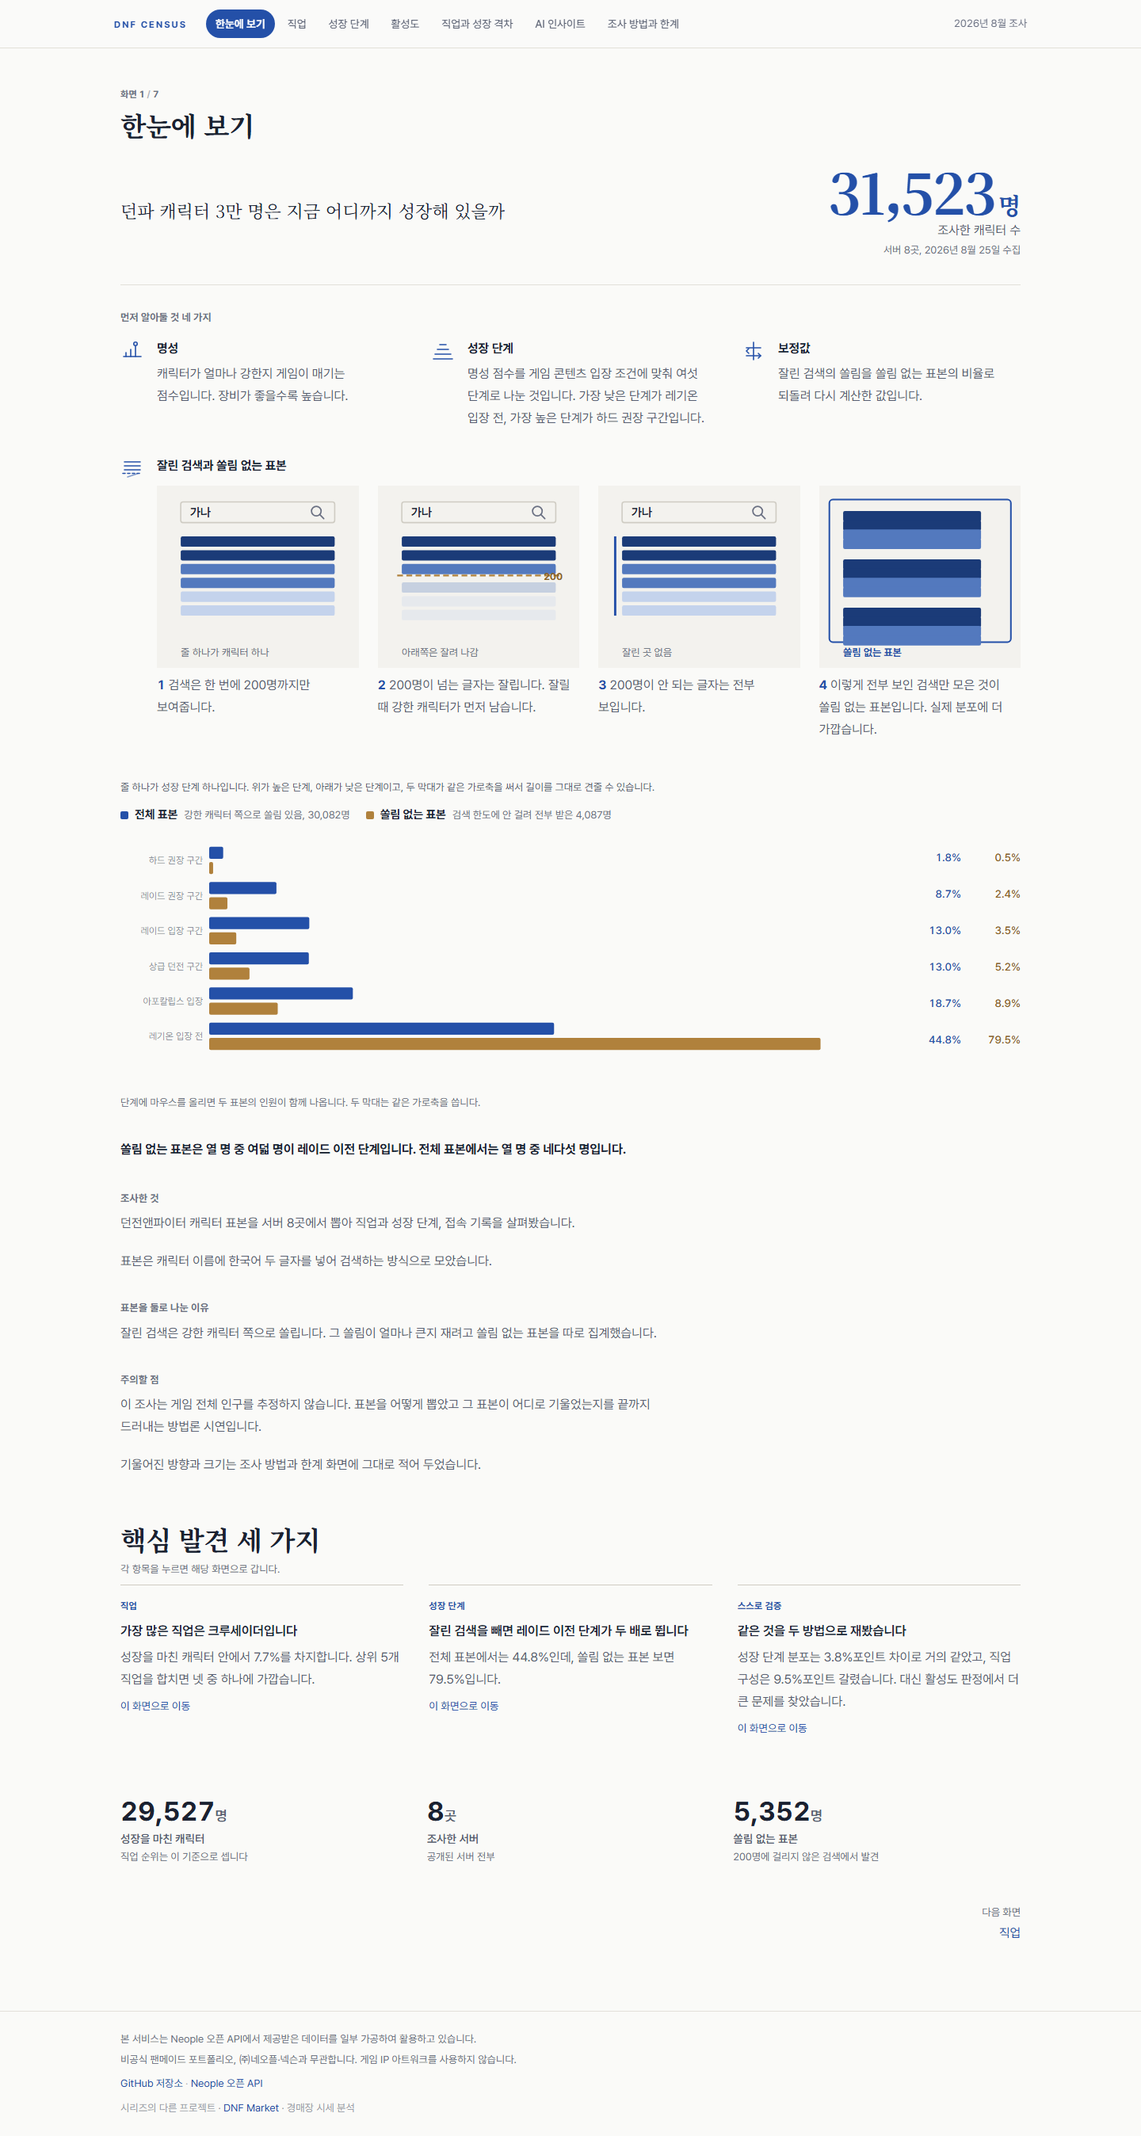
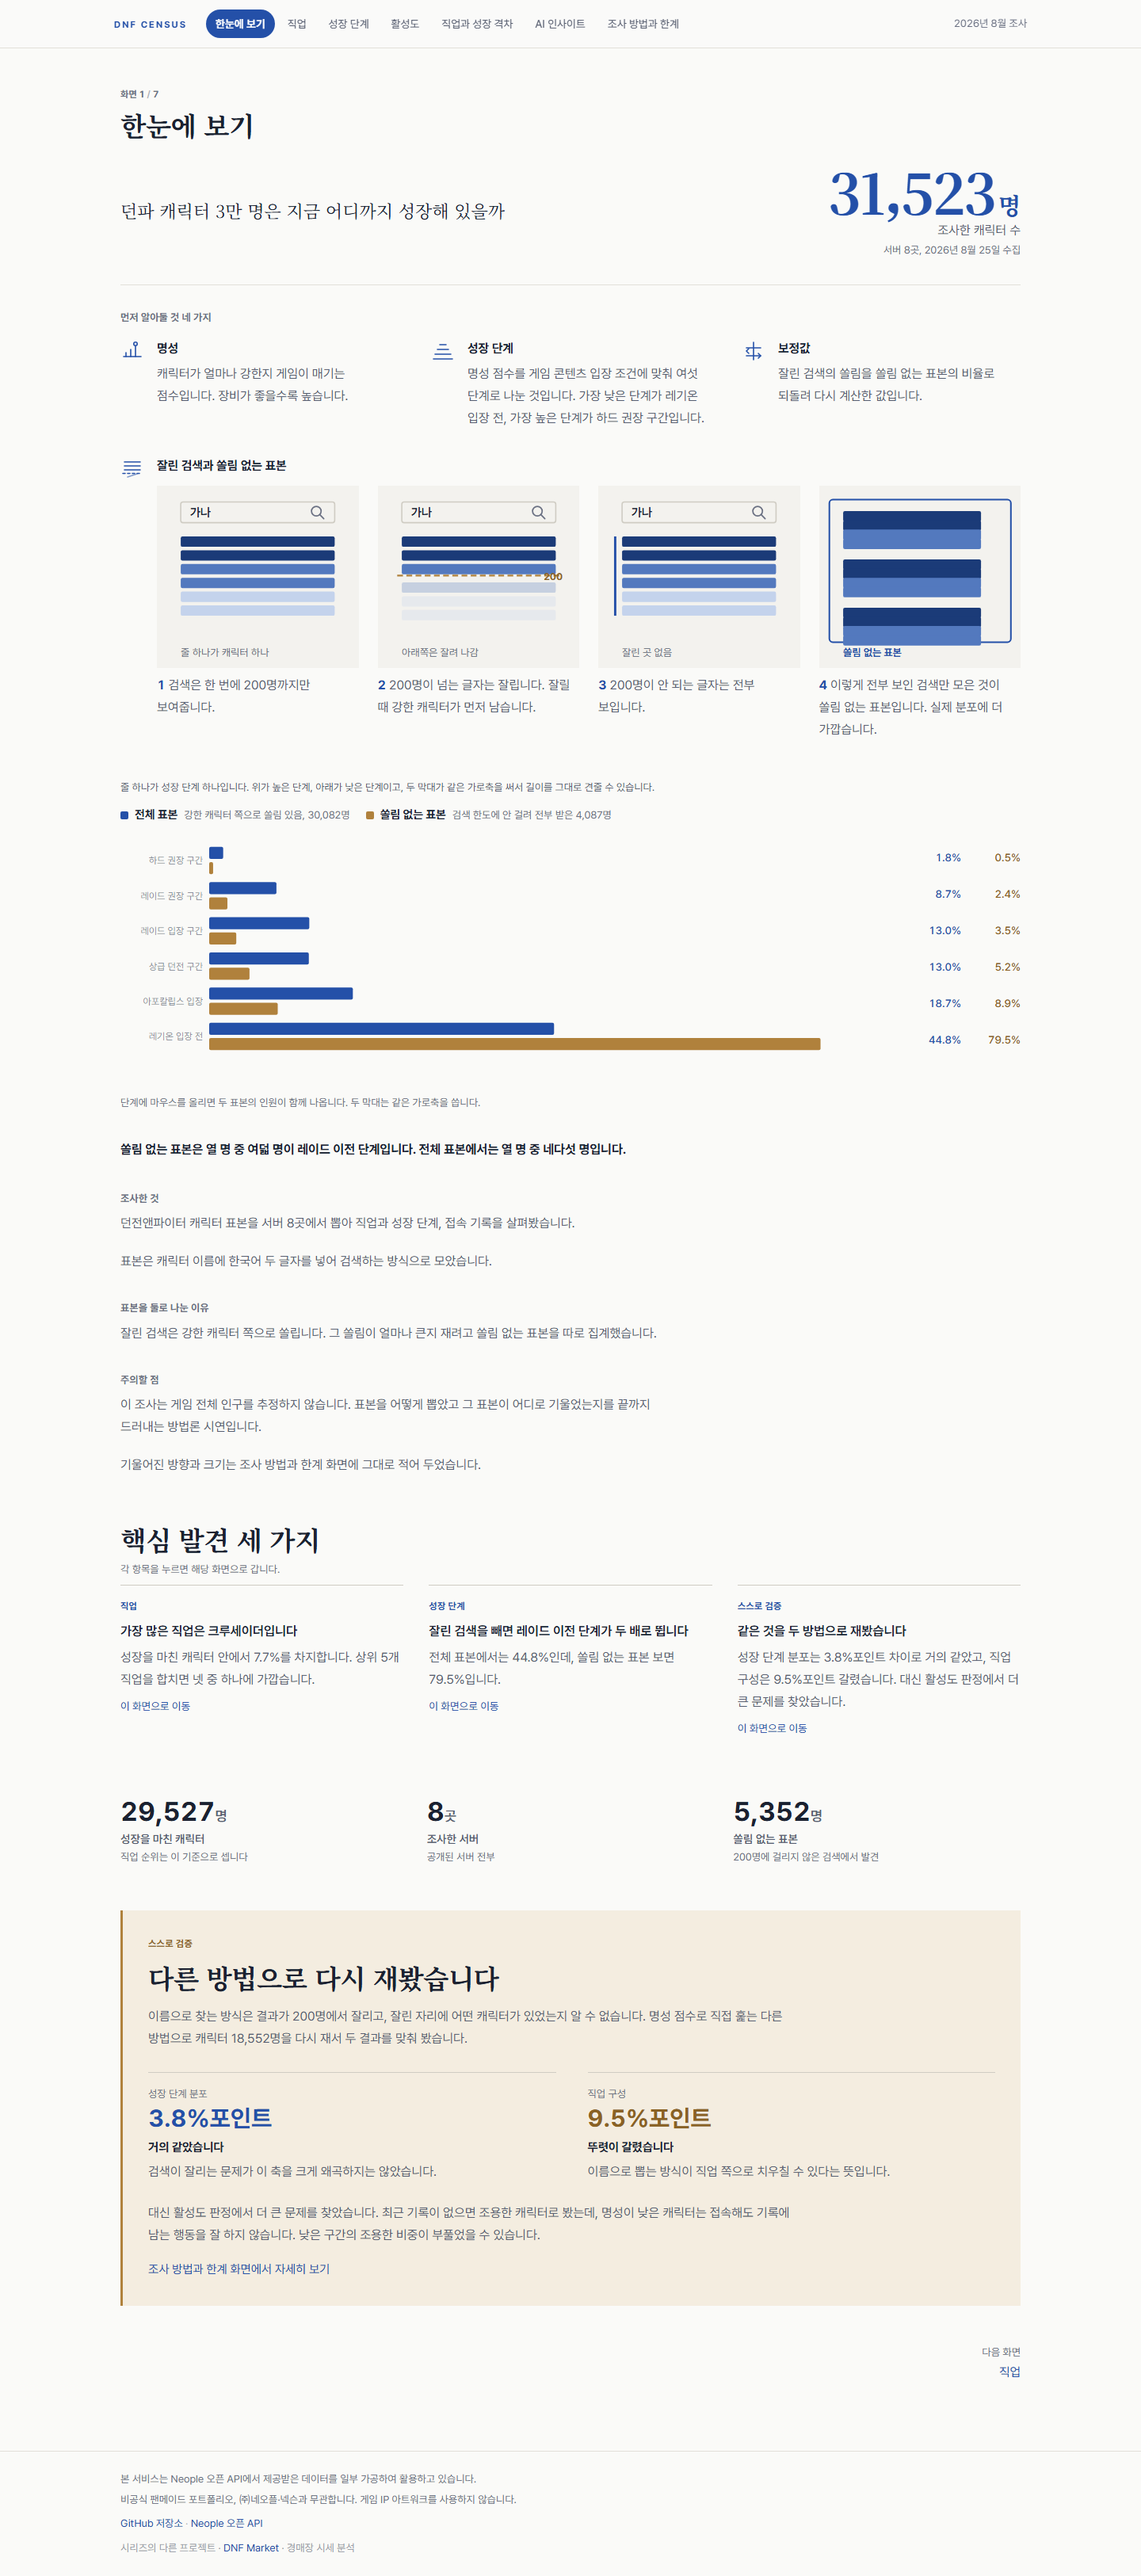
feat: 한눈에 보기 하단에 검증 결과 요약 추가
첫 화면에서도 검증 결과가 바로 보이게 한다. 핵심 발견 카드는 한 줄짜리
안내라 실제 숫자를 담기 어려웠다.

- 실측치 아래에 금색 요약 블록을 놓았다. 성장 단계 분포 3.8%포인트,
  직업 구성 9.5%포인트를 큰 숫자로 나란히 보여 주고 각각 무슨 뜻인지 적었다.
- 활성도 판정에서 더 큰 문제를 찾았다는 점과 조사 방법 화면 링크를 붙였다.
- 1차 조사 수치는 그대로 두고 검증 결과만 덧붙인다.

촬영기 정정
- shot.mjs 가 등장 연출을 끝난 상태로 고정할 때 그림 안쪽 transform 까지
  지워, 차트 축 글자와 막대가 겹쳐 보였다. 그림 내부는 건드리지 않는다.
  화면 자체는 정상이었다.

verify_final 130건 실패 0, 표시 안정성 14/14, 세리프 폴백 0자, 움직임 최소화 통과.

Claude-Session: https://claude.ai/code/session_012QoD4JYFKWpF6JagTJsNdL

diff --git a/report/src/pages/Overview.jsx b/report/src/pages/Overview.jsx
@@ -204,6 +204,59 @@ export default function Overview() {
           <BigNumber index={2} value={meta.completeSampleSize} suffix="명" label="쏠림 없는 표본" note="200명에 걸리지 않은 검색에서 발견" />
         </div>
       </Stagger>
+
+      <Stagger index={8}>
+        <section
+          className="mt-14 px-6 py-7 lg:px-8 lg:py-8"
+          style={{ background: "var(--gold-soft)", borderLeft: "3px solid var(--gold)" }}
+        >
+          <p className="t-eyebrow m-0" style={{ color: "var(--gold-text)" }}>스스로 검증</p>
+          <h2 className="t-title m-0 mt-2 text-[1.3rem]">다른 방법으로 다시 재봤습니다</h2>
+          <p className="t-body m-0 mt-3 max-w-[52rem] text-[0.95rem]">
+            이름으로 찾는 방식은 결과가 200명에서 잘리고, 잘린 자리에 어떤 캐릭터가 있었는지 알 수 없습니다.
+            명성 점수로 직접 훑는 다른 방법으로 캐릭터 {fmtPeople(verify.meta.sampleSize)}을 다시 재서 두 결과를 맞춰 봤습니다.
+          </p>
+
+          <div className="mt-7 grid gap-x-10 gap-y-6 sm:grid-cols-2">
+            {[
+              {
+                label: "성장 단계 분포",
+                value: verify.fameTvd,
+                verdict: "거의 같았습니다",
+                body: "검색이 잘리는 문제가 이 축을 크게 왜곡하지는 않았습니다.",
+                tone: "var(--accent)",
+              },
+              {
+                label: "직업 구성",
+                value: verify.jobTvd,
+                verdict: "뚜렷이 갈렸습니다",
+                body: "이름으로 뽑는 방식이 직업 쪽으로 치우칠 수 있다는 뜻입니다.",
+                tone: "var(--gold-text)",
+              },
+            ].map((c) => (
+              <div key={c.label} style={{ borderTop: "1px solid var(--hairline-strong)" }} className="pt-4">
+                <p className="t-small m-0">{c.label}</p>
+                <p className="num m-0 mt-1 text-[1.9rem] font-bold leading-none" style={{ color: c.tone }}>
+                  {fmtPp(c.value)}
+                </p>
+                <p className="m-0 mt-2 text-[0.95rem] font-bold" style={{ color: "var(--text-primary)" }}>
+                  {c.verdict}
+                </p>
+                <p className="t-body m-0 mt-1 text-[0.9rem]">{c.body}</p>
+              </div>
+            ))}
+          </div>
+
+          <p className="t-body m-0 mt-6 max-w-[52rem] text-[0.95rem]">
+            대신 활성도 판정에서 더 큰 문제를 찾았습니다.
+            최근 기록이 없으면 조용한 캐릭터로 봤는데, 명성이 낮은 캐릭터는 접속해도 기록에 남는 행동을 잘 하지 않습니다.
+            낮은 구간의 조용한 비중이 부풀었을 수 있습니다.
+          </p>
+          <p className="m-0 mt-4 text-[0.95rem]">
+            <a href="#method">조사 방법과 한계 화면에서 자세히 보기</a>
+          </p>
+        </section>
+      </Stagger>
     </PageShell>
   );
 }

diff --git a/report/content/copy.md b/report/content/copy.md
@@ -81,6 +81,18 @@
 - 공개된 서버 전부
 - 5,352명
 - 200명에 걸리지 않은 검색에서 발견
+- 다른 방법으로 다시 재봤습니다
+- 이름으로 찾는 방식은 결과가 200명에서 잘리고, 잘린 자리에 어떤 캐릭터가 있었는지 알 수 없습니다. 명성 점수로 직접 훑는 다른 방법으로 캐릭터 18,552명을 다시 재서 두 결과를 맞춰 봤습니다.
+- 성장 단계 분포
+- 3.8%포인트
+- 거의 같았습니다
+- 검색이 잘리는 문제가 이 축을 크게 왜곡하지는 않았습니다.
+- 직업 구성
+- 9.5%포인트
+- 뚜렷이 갈렸습니다
+- 이름으로 뽑는 방식이 직업 쪽으로 치우칠 수 있다는 뜻입니다.
+- 대신 활성도 판정에서 더 큰 문제를 찾았습니다. 최근 기록이 없으면 조용한 캐릭터로 봤는데, 명성이 낮은 캐릭터는 접속해도 기록에 남는 행동을 잘 하지 않습니다. 낮은 구간의 조용한 비중이 부풀었을 수 있습니다.
+- 조사 방법과 한계 화면에서 자세히 보기
 - 다음 화면
 
 ## 화면 2. 직업
